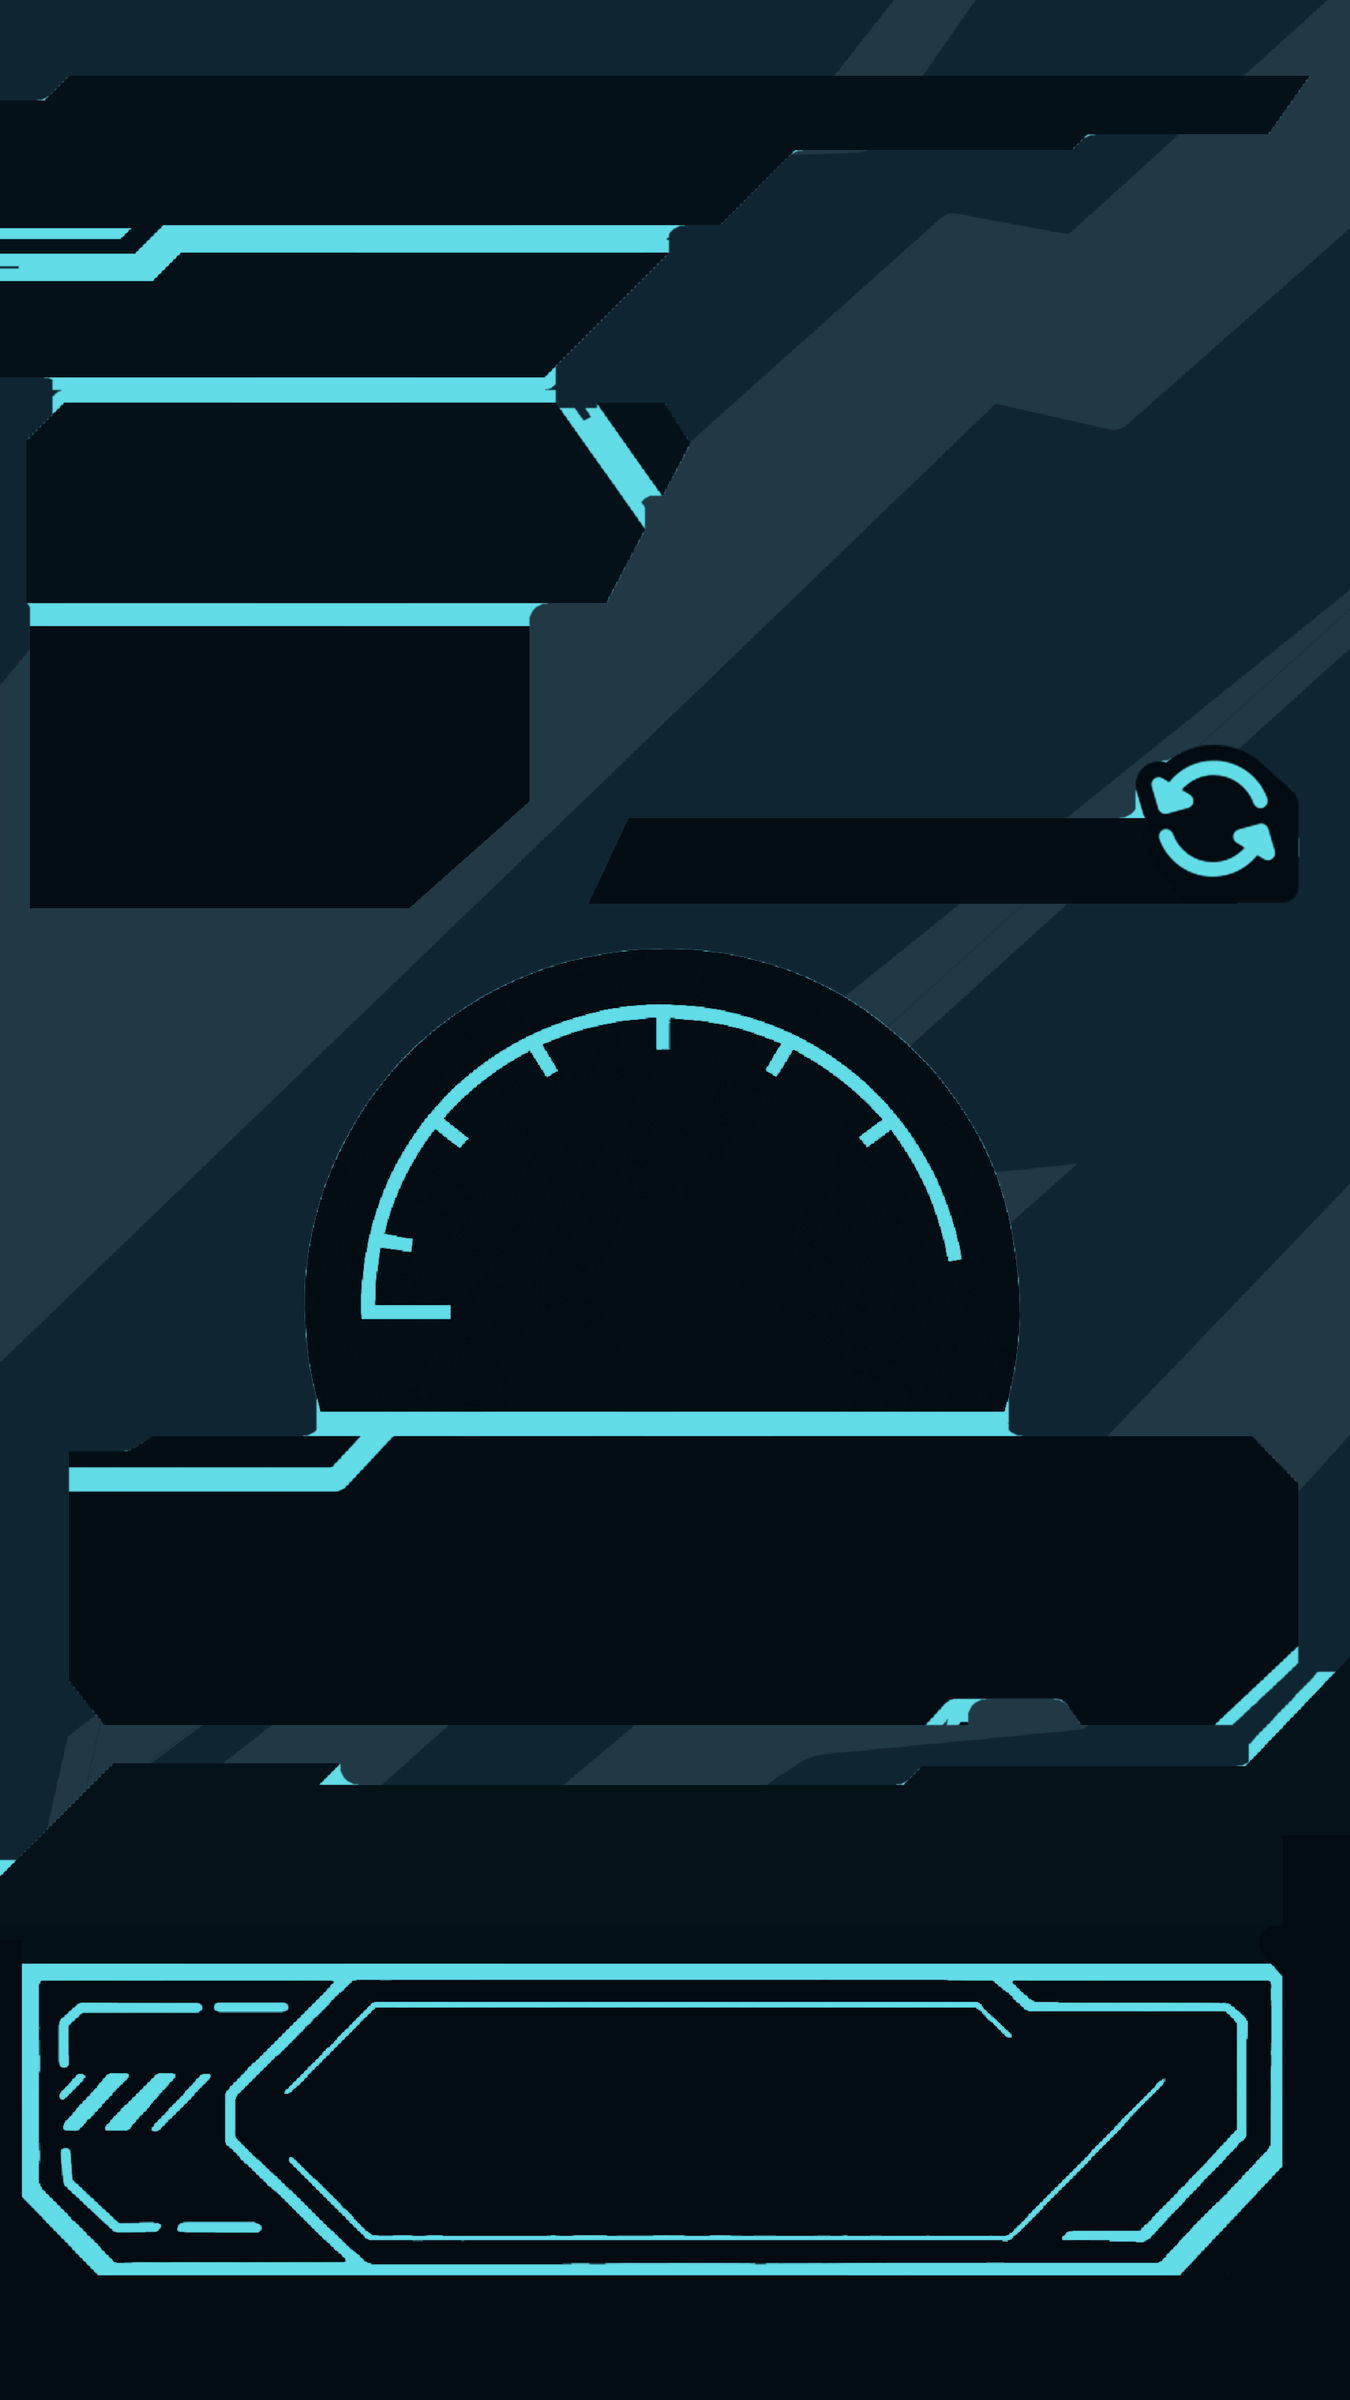
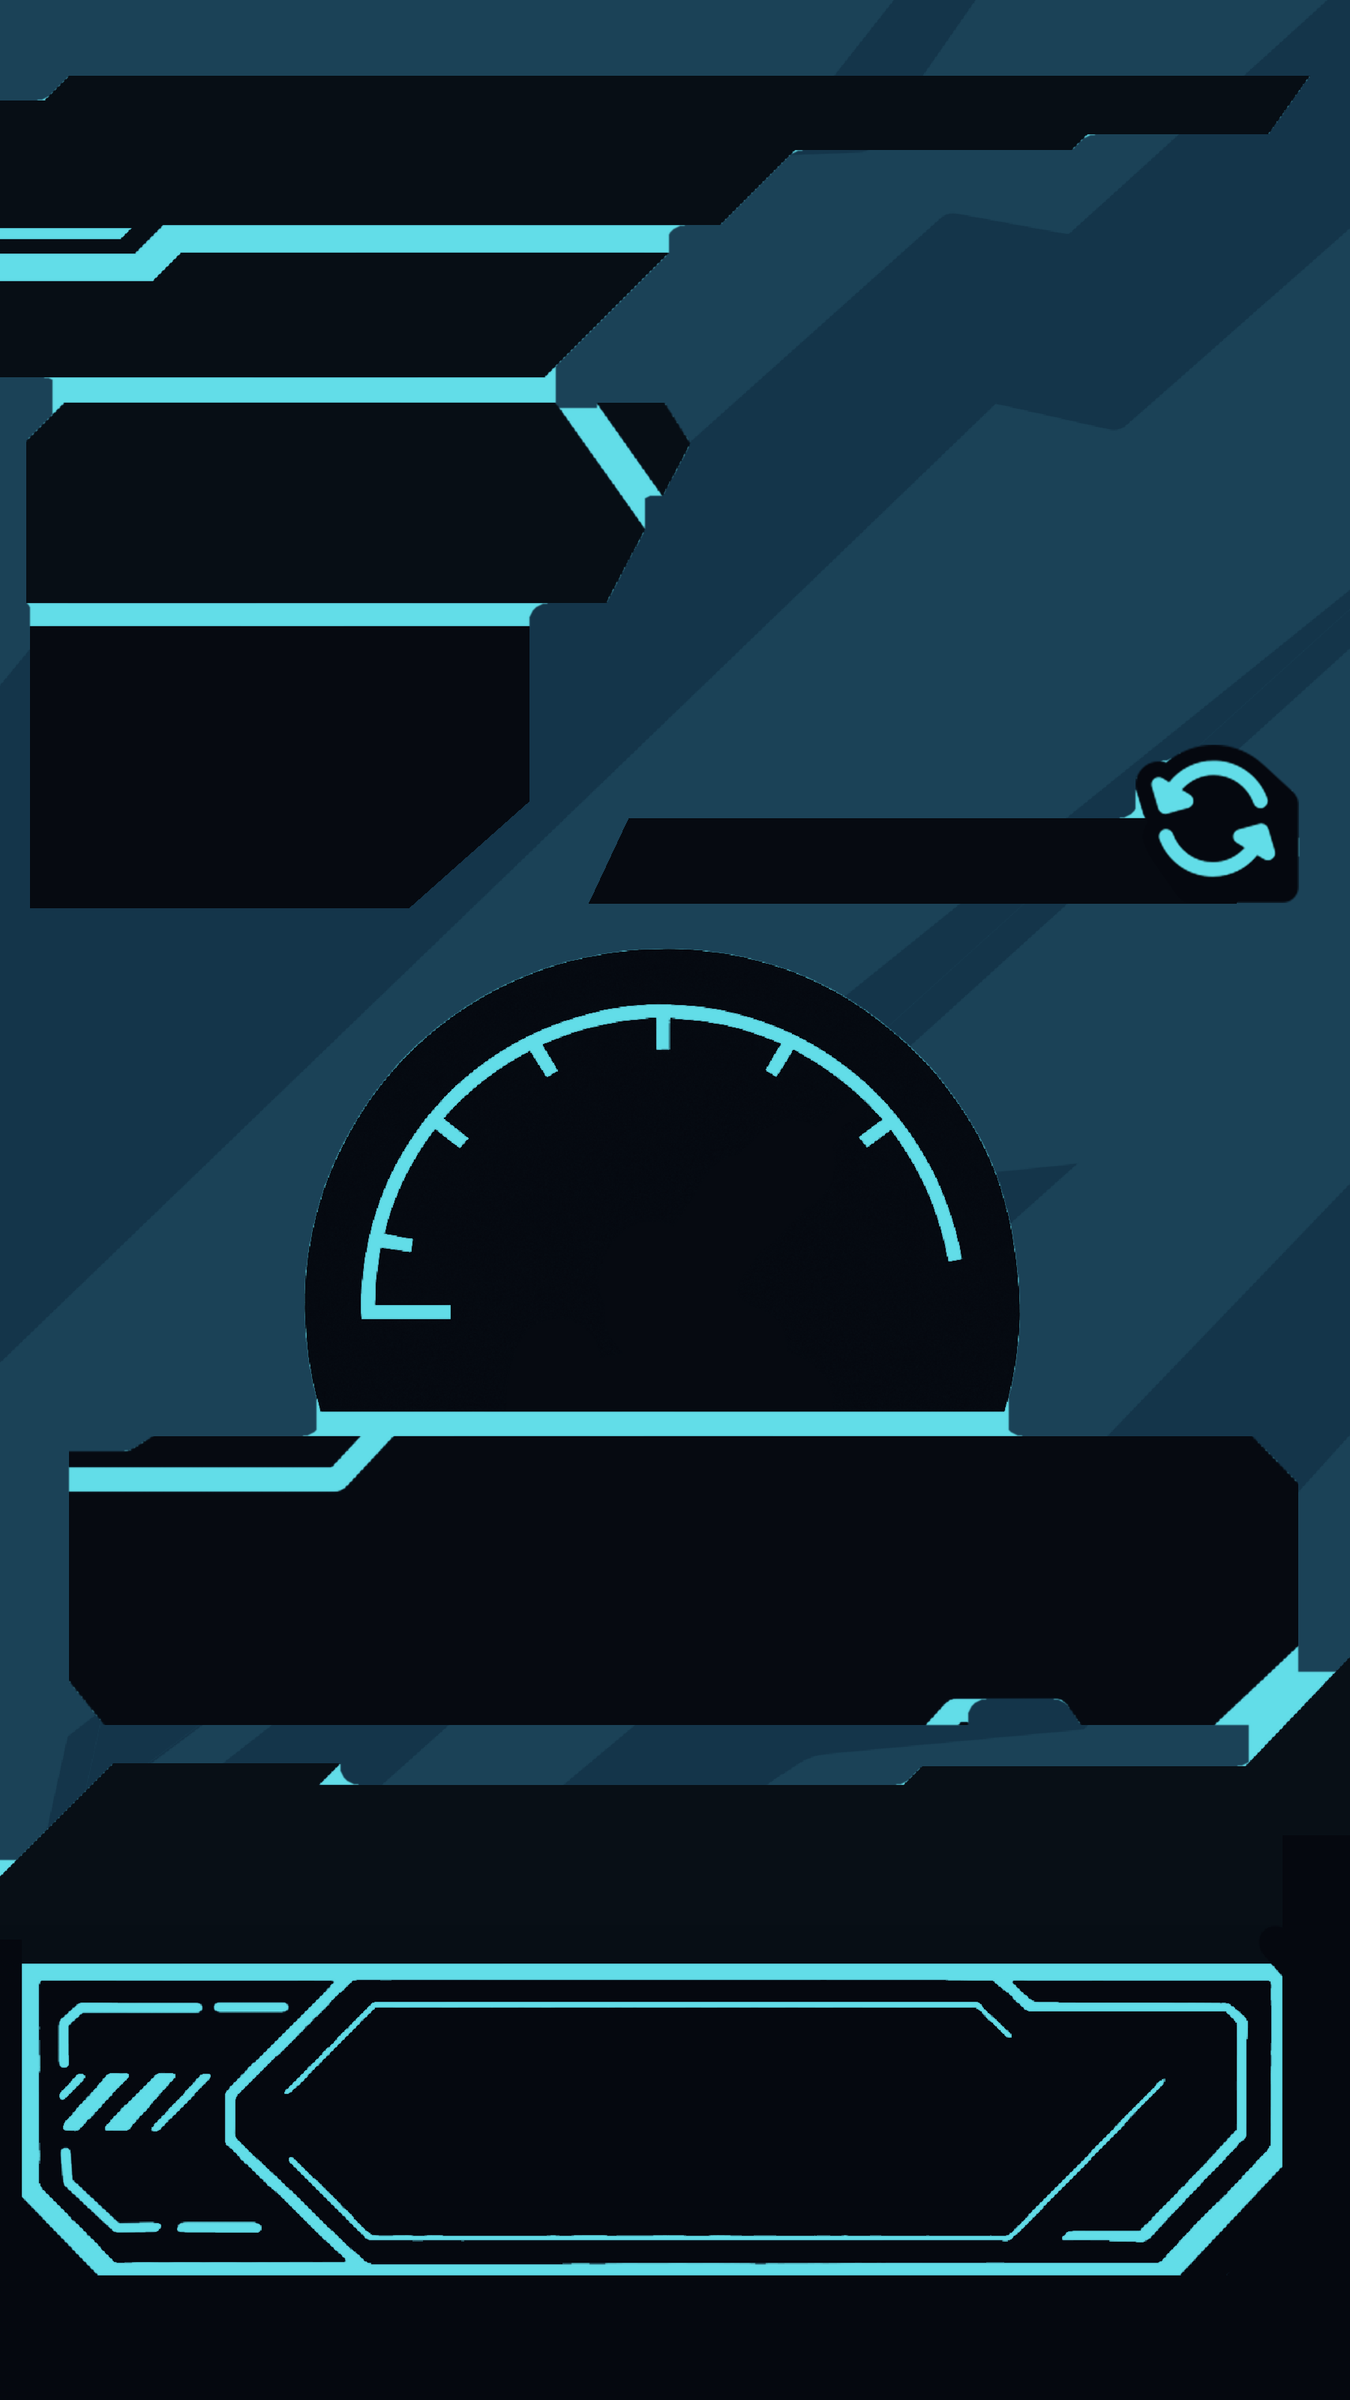
lite Sync: keep OG panels solid near-black on a lighter navy ground
Pak: the recolour put panels and ground at nearly the same navy, so the
OG's slanted, notched black panels vanished and only cyan lines floated.
New theme.ogSync tokens: ground #1B4257 (stripes #14354A, darker like the
OG's), panels #05080F. Seam rule now covers each OG yellow strip edge to
edge (hug 40 px), so cyan strips sit at the OG's widths/positions
(measured OG vs cyan within 1-3 px antialias at every scanline); panel
silhouettes IoU >= 0.98 vs OG art (swap icon 0.91 by colour class).

diff --git a/mobile/src/lite/config/__tests__/ogSyncArt.test.ts b/mobile/src/lite/config/__tests__/ogSyncArt.test.ts
@@ -9,9 +9,9 @@ const constant = (name: string) => script.match(new RegExp(`^${name} = "(#[0-9A-
 
 describe("OG Sync art re-skin", () => {
   it("bakes the HoloCity theme tokens, so a token change shows up as a failing regenerate", () => {
-    expect(constant("BG")).toBe(theme.plates.raised);
-    expect(constant("STRIPE")).toBe(theme.colors.border);
-    expect(constant("PANEL")).toBe(theme.plates.keycap);
+    expect(constant("BG")).toBe(theme.ogSync.ground);
+    expect(constant("STRIPE")).toBe(theme.ogSync.stripe);
+    expect(constant("PANEL")).toBe(theme.ogSync.panel);
     expect(constant("ACCENT")).toBe(theme.colors.accent);
   });
 

diff --git a/mobile/src/lite/theme.ts b/mobile/src/lite/theme.ts
@@ -71,6 +71,9 @@ export const theme = {
       full: { fill: "rgba(255, 210, 26, 0.96)", text: "#0E1622" },
     },
   },
+  /** OG Sync page re-skin (scripts/recolor_og_fitness.py): the OG's yellow ground and black panels
+   * mapped so panels stay a distinctly darker solid than the ground, as in the paid design. */
+  ogSync: { ground: "#1B4257", stripe: "#14354A", panel: "#05080F" },
   type: {
     display: { fontFamily: "HoloDisplay", fontSize: 34, lineHeight: 38 },
     header: { fontFamily: "HoloDisplay", fontSize: 22, lineHeight: 28 },

diff --git a/mobile/src/lite/screens/FitnessScreen.tsx b/mobile/src/lite/screens/FitnessScreen.tsx
@@ -40,7 +40,7 @@ const TOTAL_SYNC_MINUTES = 5;
 
 /** OG colour -> HoloCity token. Shapes and positions are the OG's. */
 export const OG_SYNC_RESKIN = {
-  ground: theme.plates.raised,
+  ground: theme.ogSync.ground,
   ink: theme.colors.text,
   syncPlus: theme.hud.hpRival,
   goalFill: theme.colors.accent,

diff --git a/mobile/scripts/recolor_og_fitness.py b/mobile/scripts/recolor_og_fitness.py
@@ -5,13 +5,13 @@ Shapes are untouched: every static OG layer is composited exactly as
 `src/screens/FitnessScreen.tsx` draws it (same artboard positions, the same
 luminance masks, the same vector panels), then only colours are remapped:
 
-* OG yellow background            -> HoloCity navy (`theme.plates.raised`)
-* OG darker-yellow stripe art      -> a lighter navy stripe (`theme.colors.border` at low alpha)
+* OG yellow background            -> mid navy (`theme.ogSync.ground`)
+* OG darker-yellow stripe art      -> a darker navy stripe (`theme.ogSync.stripe`)
 * the thin yellow seams the OG art
   shows *between and inside* its
   black panels (frame lines, ticks,
   cut-outs)                         -> cyan accent (`theme.colors.accent`)
-* black panels                     -> keycap navy (`theme.plates.keycap`), shading kept by luminance
+* black panels                     -> near-black navy (`theme.ogSync.panel`), shading kept by luminance
 * yellow art (swap arrows)         -> cyan accent
 
 Dynamic pieces (texts, goal/EXP bars, needle, reward icons, GO label) stay
@@ -35,13 +35,13 @@ W, H = 1800, 3200
 OUT_SCALE = 0.75  # 1350x2400: >= 3x of the widest phone canvas (402 pt)
 
 # src/lite/theme.ts tokens (kept in sync by src/lite/config/__tests__/ogSyncArt.test.ts)
-BG = "#102532"       # theme.plates.raised
-STRIPE = "#304956"   # theme.colors.border
-PANEL = "#030B12"    # theme.plates.keycap
+BG = "#1B4257"       # theme.ogSync.ground
+STRIPE = "#14354A"   # theme.ogSync.stripe (OG stripes are a darker shade of the ground)
+PANEL = "#05080F"    # theme.ogSync.panel (OG black panels: near-black, well below the ground)
 ACCENT = "#62DDE8"   # theme.colors.accent
-STRIPE_ALPHA = 0.55
+STRIPE_ALPHA = 1.0
 SEAM_RADIUS = 25  # artboard px: background no wider than ~2x this between panels is a seam (OG seams ~30 px)
-SEAM_HUG = 17     # artboard px: a seam pixel also lies within this of a panel, so channel mouths stay square
+SEAM_HUG = 40     # artboard px: a seam pixel also lies within this of a panel, so channel mouths stay square
 
 
 def rgb(hex_: str) -> np.ndarray:
